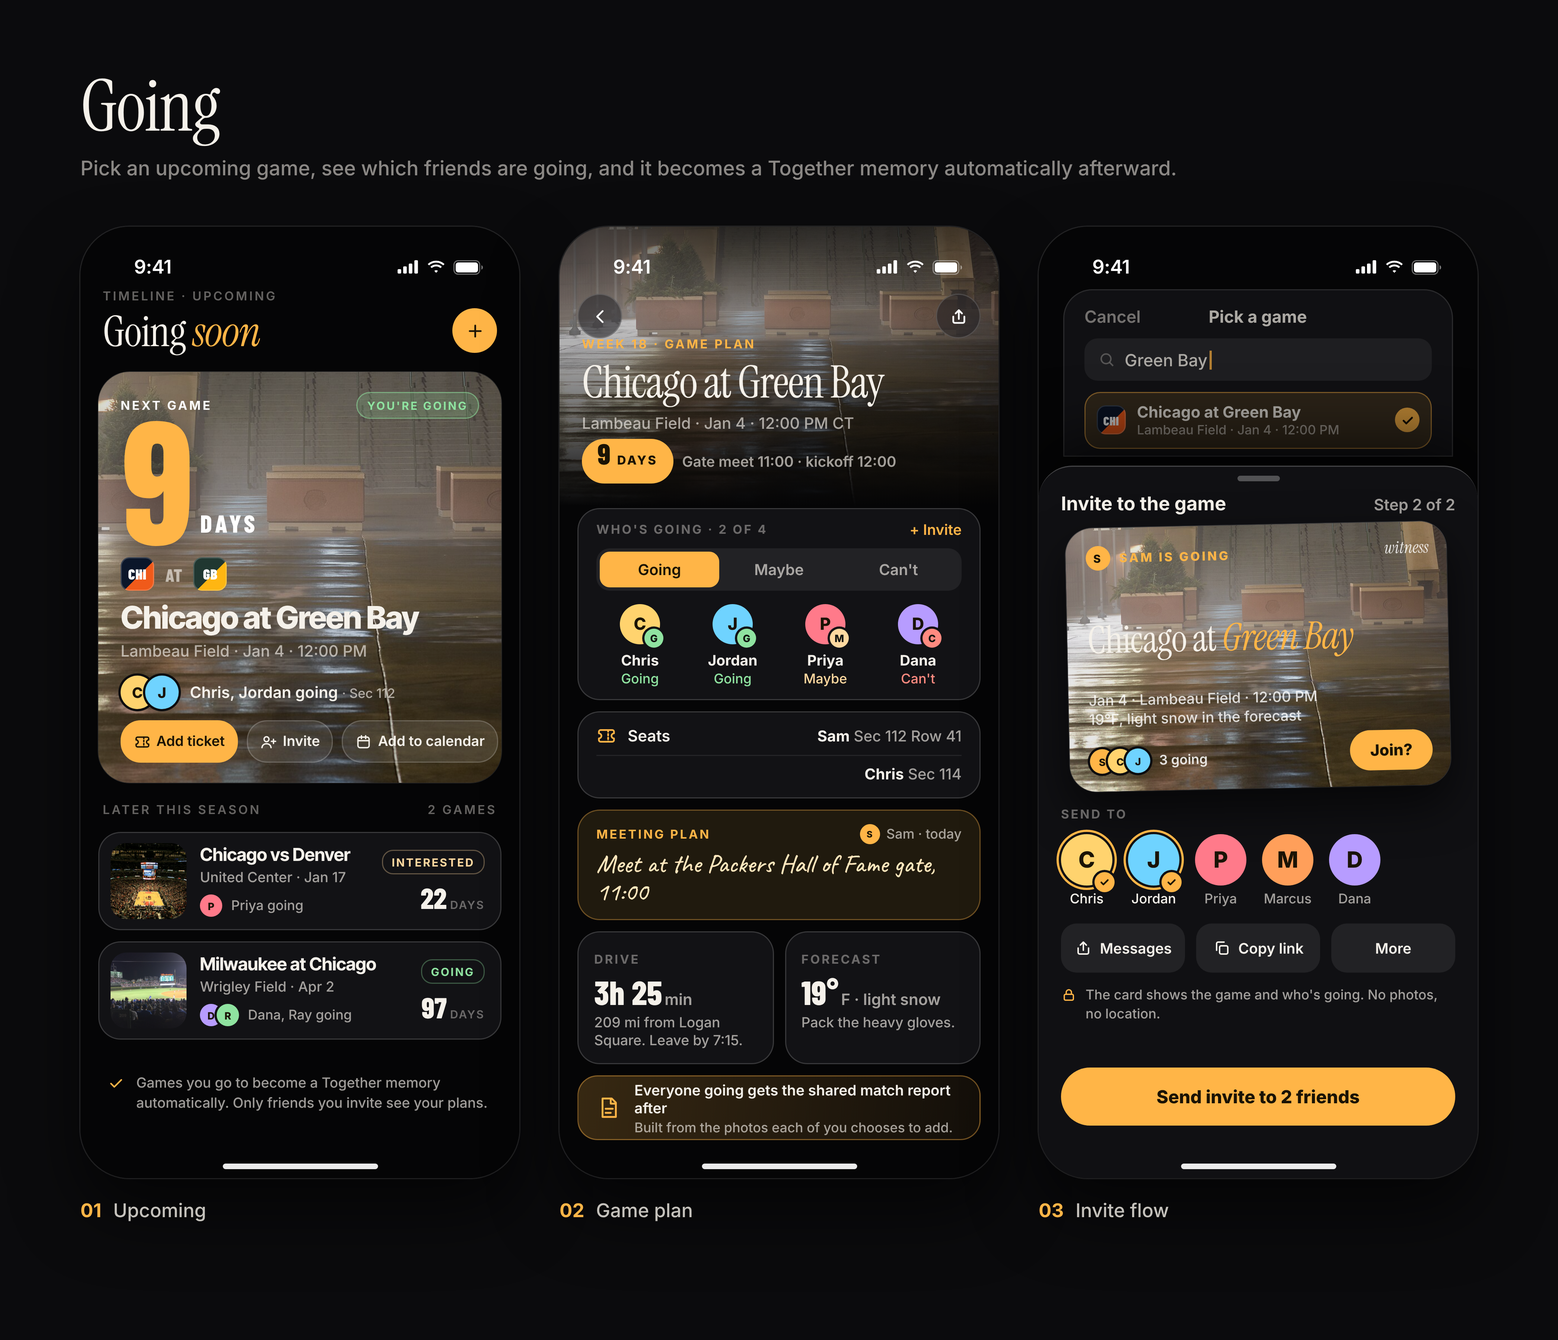
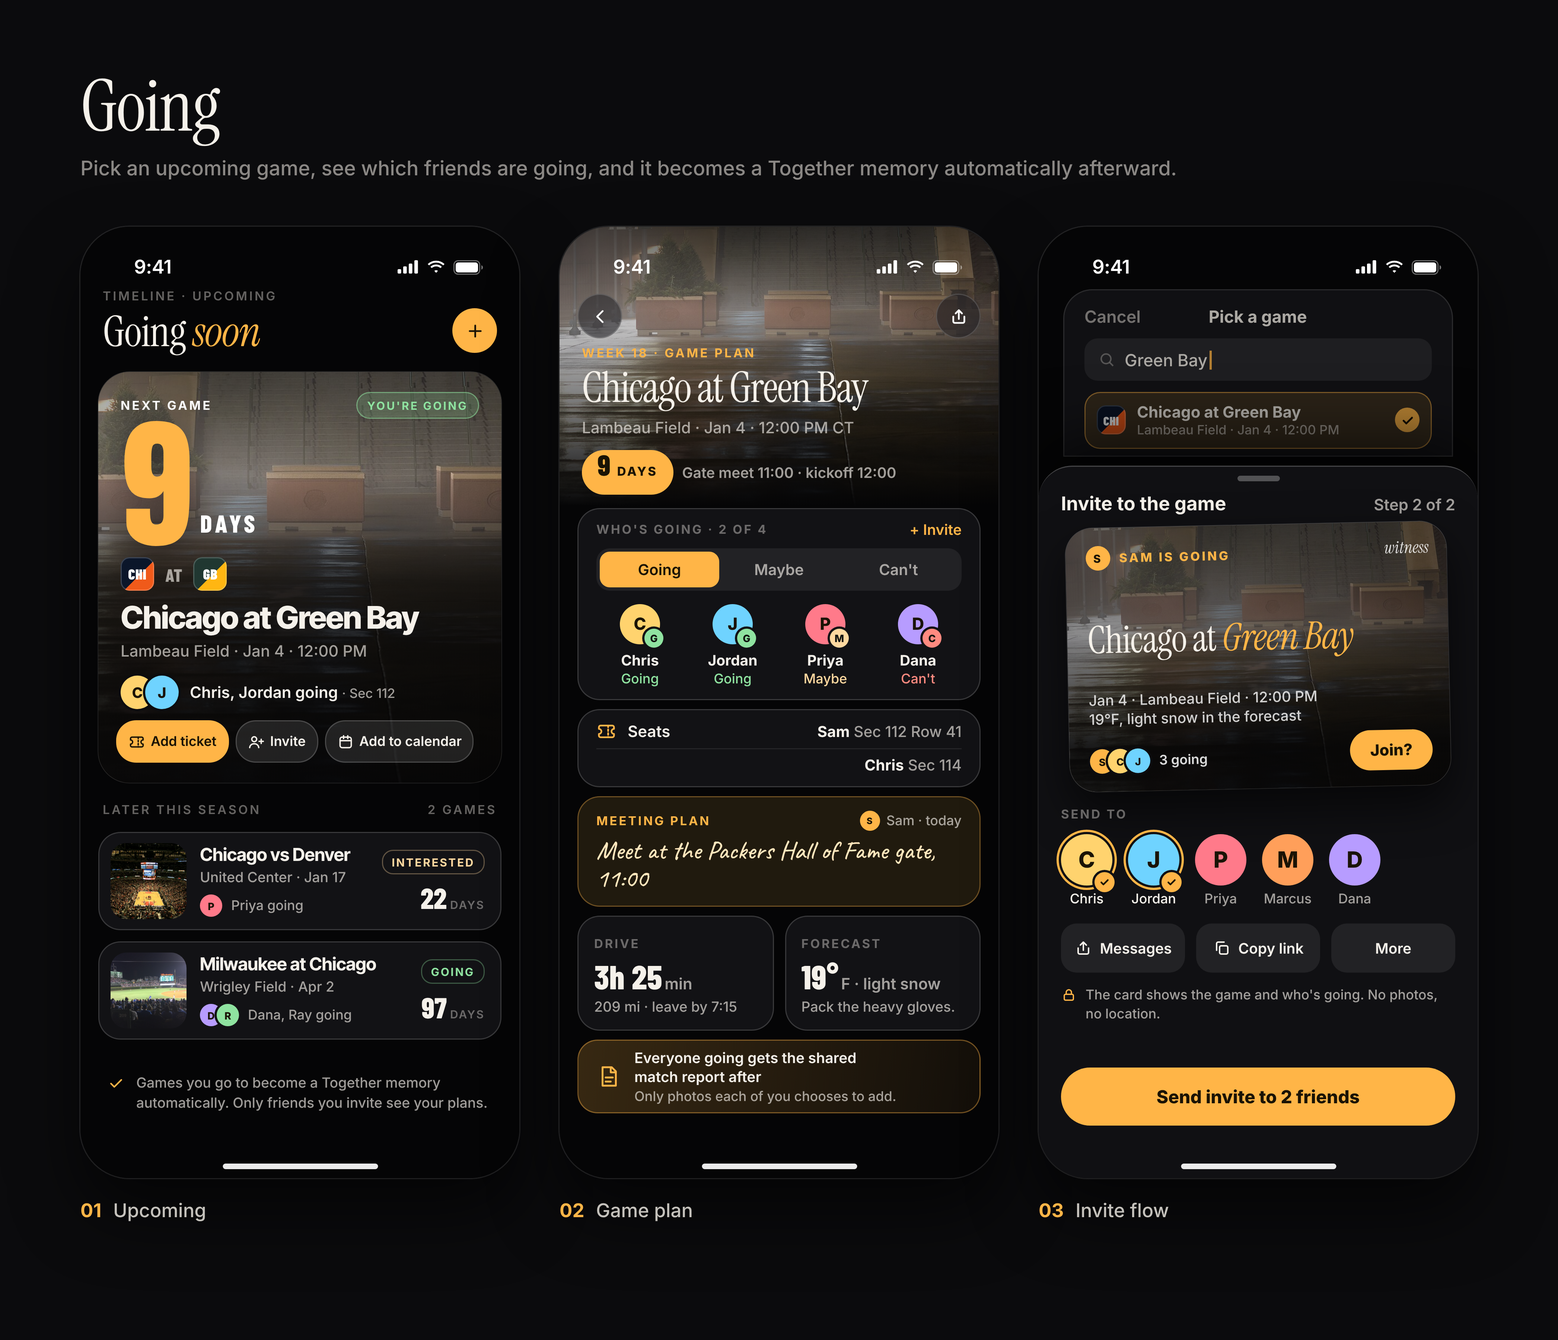
Social mockups: Circles and in-progress screens
Claude-Session: https://claude.ai/code/session_01YKCsRGYnDsF5Pryete24Wa

diff --git a/mockups/social/features/going/v2-game-plan.html b/mockups/social/features/going/v2-game-plan.html
@@ -14,6 +14,8 @@ body{background:var(--ink)}
 .pill svg{width:15px;height:15px;stroke:currentColor;fill:none;stroke-width:2;stroke-linecap:round;stroke-linejoin:round}
 .crop{position:absolute;left:0;width:100%;bottom:0;height:175%;object-fit:cover;object-position:55% 100%}
 .pill{white-space:nowrap}
+.hero img,.inv img{z-index:0!important}
+.hero:after,.inv:after{z-index:1}
 .pill.amb{background:var(--signal);color:#1a1305;border-color:transparent}
 </style>
 </head>
@@ -23,16 +25,16 @@ body{background:var(--ink)}
 .hero img{filter:saturate(.85) brightness(.82)}
 .hero:after{content:"";position:absolute;inset:0;background:linear-gradient(180deg,rgba(5,5,6,.55) 0%,rgba(5,5,6,0) 30%,rgba(5,5,6,.55) 72%,var(--ink) 100%)}
 .nb{position:absolute;top:60px;z-index:5}
-.ht{position:absolute;left:20px;right:20px;top:100px;z-index:4}
+.ht{position:absolute;left:20px;right:20px;top:108px;z-index:4}
 .ht .ey{font:700 11px/1 var(--f-ui);letter-spacing:1.8px;color:var(--signal)}
-.ht h1{font:400 40px/1 var(--f-serif);letter-spacing:-.8px;margin-top:8px}
+.ht h1{font:400 38px/1 var(--f-serif);letter-spacing:-.8px;margin-top:6px}
 .ht p{font:500 14px/1.3 var(--f-ui);color:var(--text-2);margin-top:8px}
-.cdrow{position:absolute;left:20px;right:20px;top:190px;z-index:4;display:flex;gap:8px;align-items:center}
+.cdrow{position:absolute;left:20px;right:20px;top:200px;z-index:4;display:flex;gap:8px;align-items:center}
 .cdp{display:flex;align-items:baseline;gap:6px;height:40px;padding:0 14px;border-radius:20px;background:var(--signal);color:#1a1305}
 .cdp b{font:800 26px/1 var(--f-cond)}.cdp span{font:800 11px/1 var(--f-ui);letter-spacing:1.4px}
 .cdt{white-space:nowrap;font:600 13px/1 var(--f-ui);color:var(--text-2)}
 .card{background:var(--surface);border:.5px solid var(--line-2);border-radius:20px;padding:14px 16px}
-.pl{position:absolute;left:16px;right:16px;top:252px;display:flex;flex-direction:column;gap:10px}
+.pl{position:absolute;left:16px;right:16px;top:252px;display:flex;flex-direction:column;gap:8px}
 .pl .card{padding:12px 16px}
 .lbl{font:700 11px/1 var(--f-ui);letter-spacing:1.6px;color:var(--text-3);text-transform:uppercase}
 .seg{display:flex;background:rgba(255,255,255,.07);border-radius:12px;padding:3px;margin-top:10px}
@@ -42,7 +44,7 @@ body{background:var(--ink)}
 .gp{display:flex;flex-direction:column;align-items:center;gap:3px;font:500 12px/1.1 var(--f-ui);width:70px}
 .gp b{font-weight:700;font-size:13px;margin-top:4px}
 .gpa{position:relative}.bd{position:absolute;right:-3px;bottom:-3px;width:17px;height:17px;border-radius:50%;display:grid;place-items:center;font:800 9px/1 var(--f-ui);font-style:normal;color:#10130f;box-shadow:0 0 0 2px #121215}
-.srow{display:flex;justify-content:space-between;align-items:center;height:34px;border-top:.5px solid var(--line)}
+.srow{display:flex;justify-content:space-between;align-items:center;height:30px;border-top:.5px solid var(--line)}
 .srow:first-of-type{border-top:0}
 .srow .l{display:flex;gap:10px;align-items:center;font:600 14px/1 var(--f-ui)}
 .srow .r{font:500 13.5px/1 var(--f-ui);color:var(--text-2)}
@@ -55,7 +57,7 @@ body{background:var(--ink)}
 .note{background:#201a0e;border:.5px solid rgba(255,181,71,.35);position:relative}
 .note p{font:400 23px/1.05 var(--f-hand);color:#ffe7bd;margin-top:6px}
 .note .by{display:flex;align-items:center;gap:6px;font:500 12px/1 var(--f-ui);color:var(--text-2);margin-top:8px}
-.rep{height:58px;flex:none;border-radius:18px;background:linear-gradient(100deg,rgba(255,181,71,.2),rgba(255,181,71,.06));border:.5px solid rgba(255,181,71,.4);display:flex;align-items:center;gap:12px;padding:0 16px;font:600 13px/1.25 var(--f-ui)}
+.rep{height:66px;flex:none;border-radius:18px;background:linear-gradient(100deg,rgba(255,181,71,.2),rgba(255,181,71,.06));border:.5px solid rgba(255,181,71,.4);display:flex;align-items:center;gap:12px;padding:0 16px;font:600 13px/1.25 var(--f-ui)}
 .rep svg{width:22px;height:22px;flex:none;stroke:var(--signal);fill:none;stroke-width:1.8;stroke-linecap:round;stroke-linejoin:round}
 .rep small{display:block;color:var(--text-2);font-weight:500;font-size:12px;margin-top:2px}
 </style>
@@ -70,8 +72,8 @@ body{background:var(--ink)}
 <div class="card" style="padding:4px 16px!important"><div class="srow"><div class="l"><svg width=18 height=18 style="stroke:var(--signal);fill:none;stroke-width:2;stroke-linecap:round;stroke-linejoin:round" viewBox="0 0 24 24"><path d="M3 9V7a2 2 0 0 1 2-2h14a2 2 0 0 1 2 2v2a3 3 0 0 0 0 6v2a2 2 0 0 1-2 2H5a2 2 0 0 1-2-2v-2a3 3 0 0 0 0-6z"/><path d="M14 5v14" stroke-dasharray="2 2.5"/></svg>Seats</div><div class="r"><b>Sam</b> Sec 112 Row 41</div></div>
 <div class="srow"><div class="l" style="opacity:0"> </div><div class="r"><b>Chris</b> Sec 114</div></div></div>
 <div class="card note"><div style="display:flex;justify-content:space-between;align-items:center"><span class="lbl" style="color:var(--signal)">Meeting plan</span><div class="by" style="margin:0"><span class="av" style="width:18px;height:18px;background:#ffb547;font-size:8px;box-shadow:0 0 0 2px #201a0e;margin-left:0px">S</span>Sam &middot; today</div></div><p>Meet at the Packers Hall of Fame gate, 11:00</p></div>
-<div class="two" style="margin:0"><div class="card"><span class="lbl">Drive</span><div class="big">3h 25<small>min</small></div><div class="sub">209 mi from Logan Square. Leave by 7:15.</div></div>
+<div class="two" style="margin:0"><div class="card"><span class="lbl">Drive</span><div class="big">3h 25<small>min</small></div><div class="sub">209 mi &middot; leave by 7:15</div></div>
 <div class="card"><span class="lbl">Forecast</span><div class="big">19&deg;<small>F &middot; light snow</small></div><div class="sub">Pack the heavy gloves.</div></div></div>
-<div class="rep"><svg viewBox="0 0 24 24"><path d="M6 3h9l4 4v14H6z"/><path d="M14 3v5h5M9 13h7M9 17h5"/></svg><div>Everyone going gets the shared match report after<small>Built from the photos each of you chooses to add.</small></div></div></div>
+<div class="rep"><svg viewBox="0 0 24 24"><path d="M6 3h9l4 4v14H6z"/><path d="M14 3v5h5M9 13h7M9 17h5"/></svg><div>Everyone going gets the shared<br>match report after<small>Only photos each of you chooses to add.</small></div></div></div>
 <script src="../../../kit/kit.js"></script>
 </body></html>

diff --git a/mockups/social/features/going/v1-upcoming.html b/mockups/social/features/going/v1-upcoming.html
@@ -14,6 +14,8 @@ body{background:var(--ink)}
 .pill svg{width:15px;height:15px;stroke:currentColor;fill:none;stroke-width:2;stroke-linecap:round;stroke-linejoin:round}
 .crop{position:absolute;left:0;width:100%;bottom:0;height:175%;object-fit:cover;object-position:55% 100%}
 .pill{white-space:nowrap}
+.hero img,.inv img{z-index:0!important}
+.hero:after,.inv:after{z-index:1}
 .pill.amb{background:var(--signal);color:#1a1305;border-color:transparent}
 </style>
 </head>
@@ -38,8 +40,8 @@ body{background:var(--ink)}
 .mt p{font:500 14px/1.3 var(--f-ui);color:var(--text-2);margin-top:6px}
 .who{position:absolute;left:20px;right:20px;top:272px;display:flex;align-items:center;gap:10px;font:600 14px/1 var(--f-ui)}
 .who small{color:var(--text-2);font-weight:500}
-.acts{position:absolute;left:20px;right:20px;bottom:18px;display:flex;gap:8px}
-.acts .pill{height:38px;padding:0 11px;font-size:12.5px;gap:5px}
+.acts{position:absolute;left:16px;right:16px;bottom:18px;display:flex;gap:6px}
+.acts .pill{height:38px;padding:0 10px;font-size:12px;gap:5px}
 .sec{position:absolute;left:20px;right:20px;top:516px;display:flex;justify-content:space-between;align-items:baseline}
 .row{position:relative;display:flex;gap:12px;align-items:center;background:var(--surface);border:.5px solid var(--line-2);border-radius:20px;padding:10px 14px 10px 10px;height:88px;margin-bottom:10px}
 .th{width:68px;height:68px;border-radius:14px;flex:none}

diff --git a/mockups/social/features/going/v3-invite.html b/mockups/social/features/going/v3-invite.html
@@ -14,6 +14,8 @@ body{background:var(--ink)}
 .pill svg{width:15px;height:15px;stroke:currentColor;fill:none;stroke-width:2;stroke-linecap:round;stroke-linejoin:round}
 .crop{position:absolute;left:0;width:100%;bottom:0;height:175%;object-fit:cover;object-position:55% 100%}
 .pill{white-space:nowrap}
+.hero img,.inv img{z-index:0!important}
+.hero:after,.inv:after{z-index:1}
 .pill.amb{background:var(--signal);color:#1a1305;border-color:transparent}
 </style>
 </head>
@@ -34,7 +36,7 @@ body{background:var(--ink)}
 .sh b{font:700 17px/1 var(--f-ui)}.sh span{font:600 14px/1 var(--f-ui);color:var(--text-2)}
 .inv{position:absolute;left:26px;right:26px;top:52px;height:236px;border-radius:24px;overflow:hidden;background:#0c0c0e;box-shadow:0 18px 40px rgba(0,0,0,.6),0 0 0 .5px rgba(255,255,255,.25);transform:rotate(-1.2deg)}
 .inv img{filter:saturate(.9) brightness(.9)}
-.inv:after{content:"";position:absolute;inset:0;background:linear-gradient(180deg,rgba(5,5,6,.1),rgba(5,5,6,.2) 35%,rgba(5,5,6,.92) 82%)}
+.inv:after{content:"";position:absolute;inset:0;background:linear-gradient(180deg,rgba(5,5,6,.5),rgba(5,5,6,.4) 40%,rgba(5,5,6,.93) 85%)}
 .inv>*{position:absolute;z-index:2}
 .inv .a{left:18px;top:16px;display:flex;align-items:center;gap:8px;font:800 11px/1 var(--f-ui);letter-spacing:1.8px}
 .inv .w{right:16px;top:16px;font:400 15px/1 var(--f-serif);font-style:italic;color:rgba(255,255,255,.85)}

diff --git a/mockups/social/features/circles/v3-start-a-circle.html b/mockups/social/features/circles/v3-start-a-circle.html
@@ -14,7 +14,7 @@
 .sw{display:flex;gap:10px;margin-top:12px}
 .sw i{width:24px;height:24px;border-radius:50%;display:block}
 .sw i.on{box-shadow:0 0 0 2px var(--ink),0 0 0 3.5px var(--text)}
-.mn{position:absolute;left:20px;top:214px;font:500 12px/1 var(--f-ui);color:var(--text-3)}
+.mn{position:absolute;left:20px;top:218px;font:500 12px/1 var(--f-ui);color:var(--text-3)}
 .inv{position:absolute;left:20px;right:20px;top:246px;padding:14px 16px}
 .link{margin-top:10px;display:flex;align-items:center;gap:10px;height:44px;border-radius:12px;background:var(--ink);border:.5px solid var(--line-2);padding:0 6px 0 12px}
 .link span{font:500 13px/1 var(--f-mono);color:var(--text);flex:1;white-space:nowrap}
@@ -42,7 +42,7 @@
 <div class="crest"><b>314</b></div>
 <div class="fld"><div class="sec">Circle name</div><div class="inp">Section 314 Crew<u></u></div>
   <div class="sw"><i class="on" style="background:#ffb547"></i><i style="background:#8fe3a0"></i><i style="background:#6fd3ff"></i><i style="background:#b79cff"></i><i style="background:#ff7a8a"></i><i style="background:#f3ece0"></i></div></div>
-<div class="mn">Crest from your name, in the color you pick. Change it anytime.</div>
+<div class="mn">Crest made from your name. Change it anytime.</div>
 
 <div class="card inv"><div class="sec">Invite link</div>
   <div class="link"><span>witness.app/c/sec314-4kq9</span><div>Copy</div></div>

diff --git a/mockups/social/features/circles/v2-stadium-chase.html b/mockups/social/features/circles/v2-stadium-chase.html
@@ -57,7 +57,7 @@
   <p style="margin-top:10px;font:500 14px/1.3 var(--f-ui);color:var(--text)">Oracle Park, Petco Park, T-Mobile Park</p></div>
 
 <div class="card nx"><div class="stack"><span class="av a-priya">PN</span><span class="av a-jordan">JP</span></div>
-  <div style="min-width:0"><div class="sec" style="color:var(--signal);margin-bottom:6px">Next up</div><h4>Oracle Park</h4><p>Priya lives 12 mi away in Oakland</p></div><div class="go">Plan it</div></div>
+  <div style="min-width:0"><div class="sec" style="color:var(--signal);margin-bottom:6px">Next up</div><h4>Oracle Park</h4><p>Priya lives 12 mi away</p></div><div class="go">Plan it</div></div>
 <script src="circles.js"></script>
 <script>
 var g=document.getElementById('gr'),n=0;

diff --git a/mockups/social/features/going/build.py b/mockups/social/features/going/build.py
@@ -21,6 +21,8 @@ body{background:var(--ink)}
 .pill svg{width:15px;height:15px;stroke:currentColor;fill:none;stroke-width:2;stroke-linecap:round;stroke-linejoin:round}
 .crop{position:absolute;left:0;width:100%;bottom:0;height:175%;object-fit:cover;object-position:55% 100%}
 .pill{white-space:nowrap}
+.hero img,.inv img{z-index:0!important}
+.hero:after,.inv:after{z-index:1}
 .pill.amb{background:var(--signal);color:#1a1305;border-color:transparent}
 </style>'''
 def page(title,body,name):
@@ -63,8 +65,8 @@ b1=f'''<style>
 .mt p{{font:500 14px/1.3 var(--f-ui);color:var(--text-2);margin-top:6px}}
 .who{{position:absolute;left:20px;right:20px;top:272px;display:flex;align-items:center;gap:10px;font:600 14px/1 var(--f-ui)}}
 .who small{{color:var(--text-2);font-weight:500}}
-.acts{{position:absolute;left:20px;right:20px;bottom:18px;display:flex;gap:8px}}
-.acts .pill{{height:38px;padding:0 11px;font-size:12.5px;gap:5px}}
+.acts{{position:absolute;left:16px;right:16px;bottom:18px;display:flex;gap:6px}}
+.acts .pill{{height:38px;padding:0 10px;font-size:12px;gap:5px}}
 .sec{{position:absolute;left:20px;right:20px;top:516px;display:flex;justify-content:space-between;align-items:baseline}}
 .row{{position:relative;display:flex;gap:12px;align-items:center;background:var(--surface);border:.5px solid var(--line-2);border-radius:20px;padding:10px 14px 10px 10px;height:88px;margin-bottom:10px}}
 .th{{width:68px;height:68px;border-radius:14px;flex:none}}
@@ -103,16 +105,16 @@ b2=f'''<style>
 .hero img{{filter:saturate(.85) brightness(.82)}}
 .hero:after{{content:"";position:absolute;inset:0;background:linear-gradient(180deg,rgba(5,5,6,.55) 0%,rgba(5,5,6,0) 30%,rgba(5,5,6,.55) 72%,var(--ink) 100%)}}
 .nb{{position:absolute;top:60px;z-index:5}}
-.ht{{position:absolute;left:20px;right:20px;top:100px;z-index:4}}
+.ht{{position:absolute;left:20px;right:20px;top:108px;z-index:4}}
 .ht .ey{{font:700 11px/1 var(--f-ui);letter-spacing:1.8px;color:var(--signal)}}
-.ht h1{{font:400 40px/1 var(--f-serif);letter-spacing:-.8px;margin-top:8px}}
+.ht h1{{font:400 38px/1 var(--f-serif);letter-spacing:-.8px;margin-top:6px}}
 .ht p{{font:500 14px/1.3 var(--f-ui);color:var(--text-2);margin-top:8px}}
-.cdrow{{position:absolute;left:20px;right:20px;top:190px;z-index:4;display:flex;gap:8px;align-items:center}}
+.cdrow{{position:absolute;left:20px;right:20px;top:200px;z-index:4;display:flex;gap:8px;align-items:center}}
 .cdp{{display:flex;align-items:baseline;gap:6px;height:40px;padding:0 14px;border-radius:20px;background:var(--signal);color:#1a1305}}
 .cdp b{{font:800 26px/1 var(--f-cond)}}.cdp span{{font:800 11px/1 var(--f-ui);letter-spacing:1.4px}}
 .cdt{{white-space:nowrap;font:600 13px/1 var(--f-ui);color:var(--text-2)}}
 .card{{background:var(--surface);border:.5px solid var(--line-2);border-radius:20px;padding:14px 16px}}
-.pl{{position:absolute;left:16px;right:16px;top:252px;display:flex;flex-direction:column;gap:10px}}
+.pl{{position:absolute;left:16px;right:16px;top:252px;display:flex;flex-direction:column;gap:8px}}
 .pl .card{{padding:12px 16px}}
 .lbl{{font:700 11px/1 var(--f-ui);letter-spacing:1.6px;color:var(--text-3);text-transform:uppercase}}
 .seg{{display:flex;background:rgba(255,255,255,.07);border-radius:12px;padding:3px;margin-top:10px}}
@@ -122,7 +124,7 @@ b2=f'''<style>
 .gp{{display:flex;flex-direction:column;align-items:center;gap:3px;font:500 12px/1.1 var(--f-ui);width:70px}}
 .gp b{{font-weight:700;font-size:13px;margin-top:4px}}
 .gpa{{position:relative}}.bd{{position:absolute;right:-3px;bottom:-3px;width:17px;height:17px;border-radius:50%;display:grid;place-items:center;font:800 9px/1 var(--f-ui);font-style:normal;color:#10130f;box-shadow:0 0 0 2px #121215}}
-.srow{{display:flex;justify-content:space-between;align-items:center;height:34px;border-top:.5px solid var(--line)}}
+.srow{{display:flex;justify-content:space-between;align-items:center;height:30px;border-top:.5px solid var(--line)}}
 .srow:first-of-type{{border-top:0}}
 .srow .l{{display:flex;gap:10px;align-items:center;font:600 14px/1 var(--f-ui)}}
 .srow .r{{font:500 13.5px/1 var(--f-ui);color:var(--text-2)}}
@@ -135,7 +137,7 @@ b2=f'''<style>
 .note{{background:#201a0e;border:.5px solid rgba(255,181,71,.35);position:relative}}
 .note p{{font:400 23px/1.05 var(--f-hand);color:#ffe7bd;margin-top:6px}}
 .note .by{{display:flex;align-items:center;gap:6px;font:500 12px/1 var(--f-ui);color:var(--text-2);margin-top:8px}}
-.rep{{height:58px;flex:none;border-radius:18px;background:linear-gradient(100deg,rgba(255,181,71,.2),rgba(255,181,71,.06));border:.5px solid rgba(255,181,71,.4);display:flex;align-items:center;gap:12px;padding:0 16px;font:600 13px/1.25 var(--f-ui)}}
+.rep{{height:66px;flex:none;border-radius:18px;background:linear-gradient(100deg,rgba(255,181,71,.2),rgba(255,181,71,.06));border:.5px solid rgba(255,181,71,.4);display:flex;align-items:center;gap:12px;padding:0 16px;font:600 13px/1.25 var(--f-ui)}}
 .rep svg{{width:22px;height:22px;flex:none;stroke:var(--signal);fill:none;stroke-width:1.8;stroke-linecap:round;stroke-linejoin:round}}
 .rep small{{display:block;color:var(--text-2);font-weight:500;font-size:12px;margin-top:2px}}
 </style>
@@ -150,9 +152,9 @@ b2=f'''<style>
 <div class="card" style="padding:4px 16px!important"><div class="srow"><div class="l">{SV['tix'].replace('<svg','<svg width=18 height=18 style="stroke:var(--signal);fill:none;stroke-width:2;stroke-linecap:round;stroke-linejoin:round"')}Seats</div><div class="r"><b>Sam</b> Sec 112 Row 41</div></div>
 <div class="srow"><div class="l" style="opacity:0"> </div><div class="r"><b>Chris</b> Sec 114</div></div></div>
 <div class="card note"><div style="display:flex;justify-content:space-between;align-items:center"><span class="lbl" style="color:var(--signal)">Meeting plan</span><div class="by" style="margin:0">{av('Sam',18,'#201a0e')}Sam &middot; today</div></div><p>Meet at the Packers Hall of Fame gate, 11:00</p></div>
-<div class="two" style="margin:0"><div class="card"><span class="lbl">Drive</span><div class="big">3h 25<small>min</small></div><div class="sub">209 mi from Logan Square. Leave by 7:15.</div></div>
+<div class="two" style="margin:0"><div class="card"><span class="lbl">Drive</span><div class="big">3h 25<small>min</small></div><div class="sub">209 mi &middot; leave by 7:15</div></div>
 <div class="card"><span class="lbl">Forecast</span><div class="big">19&deg;<small>F &middot; light snow</small></div><div class="sub">Pack the heavy gloves.</div></div></div>
-<div class="rep"><svg viewBox="0 0 24 24"><path d="M6 3h9l4 4v14H6z"/><path d="M14 3v5h5M9 13h7M9 17h5"/></svg><div>Everyone going gets the shared match report after<small>Built from the photos each of you chooses to add.</small></div></div></div>'''
+<div class="rep"><svg viewBox="0 0 24 24"><path d="M6 3h9l4 4v14H6z"/><path d="M14 3v5h5M9 13h7M9 17h5"/></svg><div>Everyone going gets the shared<br>match report after<small>Only photos each of you chooses to add.</small></div></div></div>'''
 page('Game plan',b2,'v2-game-plan.html')
 
 # ---------------- v3
@@ -172,7 +174,7 @@ b3=f'''<style>
 .sh b{{font:700 17px/1 var(--f-ui)}}.sh span{{font:600 14px/1 var(--f-ui);color:var(--text-2)}}
 .inv{{position:absolute;left:26px;right:26px;top:52px;height:236px;border-radius:24px;overflow:hidden;background:#0c0c0e;box-shadow:0 18px 40px rgba(0,0,0,.6),0 0 0 .5px rgba(255,255,255,.25);transform:rotate(-1.2deg)}}
 .inv img{{filter:saturate(.9) brightness(.9)}}
-.inv:after{{content:"";position:absolute;inset:0;background:linear-gradient(180deg,rgba(5,5,6,.1),rgba(5,5,6,.2) 35%,rgba(5,5,6,.92) 82%)}}
+.inv:after{{content:"";position:absolute;inset:0;background:linear-gradient(180deg,rgba(5,5,6,.5),rgba(5,5,6,.4) 40%,rgba(5,5,6,.93) 85%)}}
 .inv>*{{position:absolute;z-index:2}}
 .inv .a{{left:18px;top:16px;display:flex;align-items:center;gap:8px;font:800 11px/1 var(--f-ui);letter-spacing:1.8px}}
 .inv .w{{right:16px;top:16px;font:400 15px/1 var(--f-serif);font-style:italic;color:rgba(255,255,255,.85)}}

diff --git a/mockups/social/features/circles/NOTES.md b/mockups/social/features/circles/NOTES.md
@@ -1,0 +1,8 @@
+**Idea:** Circles are small private groups (family, a section crew, a supporters group) with a shared wall of cards members chose to post, combined stats, a combined stadium passport, and a seasonal challenge. Not a feed: no likes, no follower counts, no strangers.
+**Why people want it:** Fandom is shared. "412 games, 71 venues, 9 countries" is a number only a group can have, and "I was there too" turns a keepsake into a reunion.
+**First use / empty state (v3):** One member, an invite link, and a quiet wall with a single friendly prompt ("Post the game you most want the crew to see"), suggesting the user's best shared game.
+**Privacy:** Members see only games and venues, plus photos only when a person picks and posts them. Camera roll and matching stay on device. No live location, tickets or kids' profiles (Maya, Leo never appear). Join by private link with owner approval; no public search. Combined stats count each game once.
+**Reaction:** "I was there too" is one tap and counts people ("3 were there: Ray, Chris, you"), never likes.
+**Challenge (v2):** Collaboration framing; colored stamps by member, who-added-what bar (not a ranked leaderboard), "You need 3 more", and a next-up suggestion that mentions members who live near the venue (a city-level, opt-in profile field).
+**Plugs into:** You tab (Circles row), game page ("Share to a circle" + "N from your circles were there"), Circle passport reuses the passport stamps, Match report share sheet.
+**Minimum backend:** Apple sign-in identity, circle + membership tables, invite tokens with approval, a posted-card record (game id, optional chosen photo upload), reaction set per card, aggregate stat and park-union jobs, challenge definitions.
